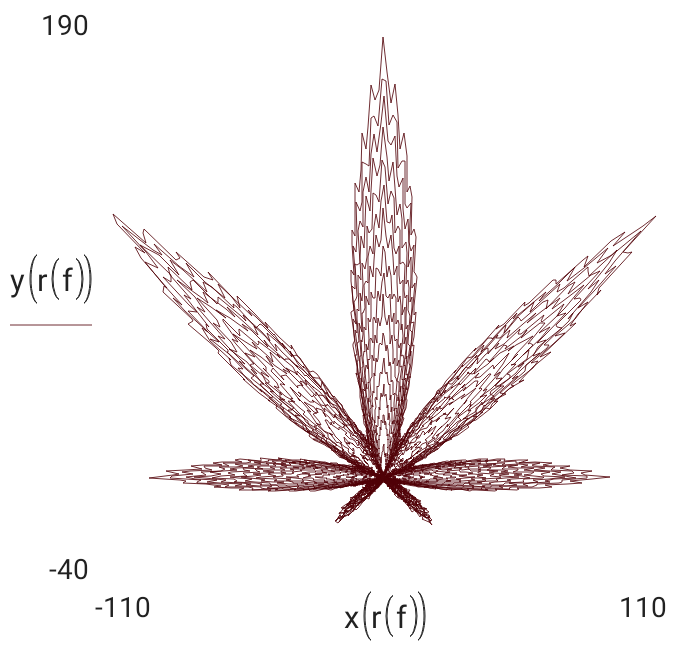
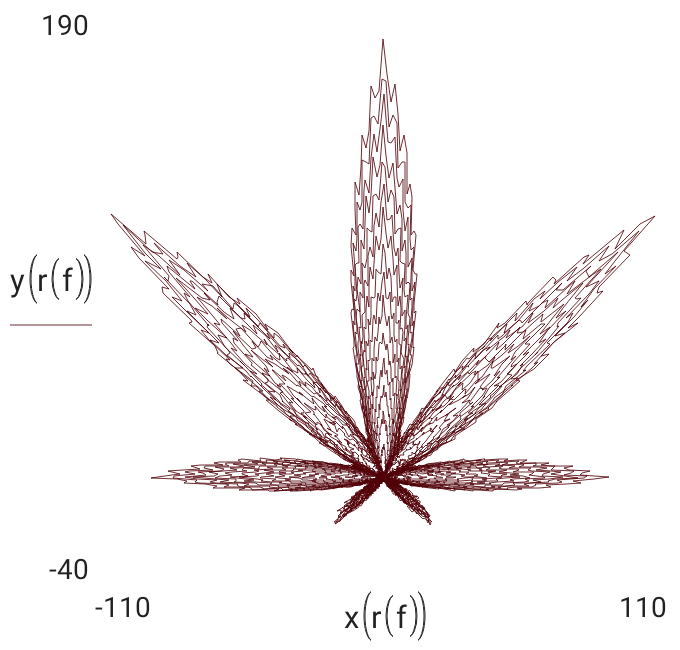
Updated documentation for version 2.16.1

Changed region(s): [[0.1544, 0.1231, 0.9574, 0.8], [0.5559, 0.0615, 0.5868, 0.1231]]

diff --git a/doc/polar_plot_ru.tex b/doc/polar_plot_ru.tex
@@ -1,5 +1,5 @@
 % This is auto-generated file: do not edit!
-% Exported from microMathematics Plus, version 2.16
+% Exported from microMathematics Plus, version 2.16.1
 
 
 Сейчас мы построим несколько
@@ -108,7 +108,7 @@ x и y, используя следующие
   $s2(f) := 0.9 + 0.05 \cdot cos \left( 200 \cdot f\right) $
 \end{tabular}\end{center}
 \begin{center}\begin{tabular}{c}
-  $r(f) := floor \left( f\right)  \cdot s1 \left( f\right)  \cdot s2 \left( f\right)  + rnd \left( 2\right)  - 1$
+  $r(f) := floor \left( f\right)  \cdot s1 \left( f\right)  \cdot s2 \left( f\right)  + random \left( 2\right)  - 1$
 \end{tabular}\end{center}
 \begin{center}\begin{tabular}{c} \includegraphics[resolution=320]{graphics/polar_plot_fig6.png} \end{tabular}\end{center}
 

diff --git a/doc/how_to_use_ru.tex b/doc/how_to_use_ru.tex
@@ -1,5 +1,5 @@
 % This is auto-generated file: do not edit!
-% Exported from microMathematics Plus, version 2.16
+% Exported from microMathematics Plus, version 2.16.1
 
 
 Данное приложение является мощным
@@ -225,7 +225,10 @@ LaTeX или изображение.
   $w(z) := {e}^{2i \cdot {\pi} \cdot z}$
 \end{tabular}\end{center}
 \begin{center}\begin{tabular}{c}
-  $g(x,y) := \frac{sin \left( hypot \left( x,\, y\right) \right) }{hypot \left( x,\, y / 2\right)  + 1}$
+  $H(x,y) := \sqrt{{x}^{2} + {y}^{2}} $
+\end{tabular}\end{center}
+\begin{center}\begin{tabular}{c}
+  $g(x,y) := \frac{sin \left( H \left( x,\, y\right) \right) }{H \left( x,\, y / 2\right)  + 1}$
 \end{tabular}\end{center}
 
 Правая часть такого объекта

diff --git a/doc/polar_plot.tex b/doc/polar_plot.tex
@@ -1,5 +1,5 @@
 % This is auto-generated file: do not edit!
-% Exported from microMathematics Plus, version 2.16
+% Exported from microMathematics Plus, version 2.16.1
 
 
 Now we plot several functions given in
@@ -89,7 +89,7 @@ in the polar coordinate system:
   $s2(f) := 0.9 + 0.05 \cdot cos \left( 200 \cdot f\right) $
 \end{tabular}\end{center}
 \begin{center}\begin{tabular}{c}
-  $r(f) := floor \left( f\right)  \cdot s1 \left( f\right)  \cdot s2 \left( f\right)  + rnd \left( 2\right)  - 1$
+  $r(f) := floor \left( f\right)  \cdot s1 \left( f\right)  \cdot s2 \left( f\right)  + random \left( 2\right)  - 1$
 \end{tabular}\end{center}
 \begin{center}\begin{tabular}{c} \includegraphics[resolution=320]{graphics/polar_plot_fig6.png} \end{tabular}\end{center}
 

diff --git a/doc/polar_plot_br.tex b/doc/polar_plot_br.tex
@@ -1,5 +1,5 @@
 % This is auto-generated file: do not edit!
-% Exported from microMathematics Plus, version 2.16
+% Exported from microMathematics Plus, version 2.16.1
 
 
 Agora desenharemos várias funções dadas
@@ -93,7 +93,7 @@ coordenadas polares:
   $s2(f) := 0.9 + 0.05 \cdot cos \left( 200 \cdot f\right) $
 \end{tabular}\end{center}
 \begin{center}\begin{tabular}{c}
-  $r(f) := floor \left( f\right)  \cdot s1 \left( f\right)  \cdot s2 \left( f\right)  + rnd \left( 2\right)  - 1$
+  $r(f) := floor \left( f\right)  \cdot s1 \left( f\right)  \cdot s2 \left( f\right)  + random \left( 2\right)  - 1$
 \end{tabular}\end{center}
 \begin{center}\begin{tabular}{c} \includegraphics[resolution=320]{graphics/polar_plot_fig6.png} \end{tabular}\end{center}
 

diff --git a/doc/polar_plot_de.tex b/doc/polar_plot_de.tex
@@ -1,5 +1,5 @@
 % This is auto-generated file: do not edit!
-% Exported from microMathematics Plus, version 2.16
+% Exported from microMathematics Plus, version 2.16.1
 
 
 Jetzt zeichnen wir eine Funktion, die
@@ -95,7 +95,7 @@ dargestellt werden:
   $s2(f) := 0.9 + 0.05 \cdot cos \left( 200 \cdot f\right) $
 \end{tabular}\end{center}
 \begin{center}\begin{tabular}{c}
-  $r(f) := floor \left( f\right)  \cdot s1 \left( f\right)  \cdot s2 \left( f\right)  + rnd \left( 2\right)  - 1$
+  $r(f) := floor \left( f\right)  \cdot s1 \left( f\right)  \cdot s2 \left( f\right)  + random \left( 2\right)  - 1$
 \end{tabular}\end{center}
 \begin{center}\begin{tabular}{c} \includegraphics[resolution=320]{graphics/polar_plot_fig6.png} \end{tabular}\end{center}
 

diff --git a/doc/how_to_use.tex b/doc/how_to_use.tex
@@ -1,5 +1,5 @@
 % This is auto-generated file: do not edit!
-% Exported from microMathematics Plus, version 2.16
+% Exported from microMathematics Plus, version 2.16.1
 
 
 This app is a powerful calculation
@@ -201,7 +201,10 @@ letters or digits only:
   $w(z) := {e}^{2i \cdot {\pi} \cdot z}$
 \end{tabular}\end{center}
 \begin{center}\begin{tabular}{c}
-  $g(x,y) := \frac{sin \left( hypot \left( x,\, y\right) \right) }{hypot \left( x,\, y / 2\right)  + 1}$
+  $H(x,y) := \sqrt{{x}^{2} + {y}^{2}} $
+\end{tabular}\end{center}
+\begin{center}\begin{tabular}{c}
+  $g(x,y) := \frac{sin \left( H \left( x,\, y\right) \right) }{H \left( x,\, y / 2\right)  + 1}$
 \end{tabular}\end{center}
 
 The right side of the function contains

diff --git a/doc/how_to_use_br.tex b/doc/how_to_use_br.tex
@@ -1,5 +1,5 @@
 % This is auto-generated file: do not edit!
-% Exported from microMathematics Plus, version 2.16
+% Exported from microMathematics Plus, version 2.16.1
 
 
 Este app é um poderoso programa
@@ -208,7 +208,10 @@ ou dígitos:
   $w(z) := {e}^{2i \cdot {\pi} \cdot z}$
 \end{tabular}\end{center}
 \begin{center}\begin{tabular}{c}
-  $g(x,y) := \frac{sin \left( hypot \left( x,\, y\right) \right) }{hypot \left( x,\, y / 2\right)  + 1}$
+  $H(x,y) := \sqrt{{x}^{2} + {y}^{2}} $
+\end{tabular}\end{center}
+\begin{center}\begin{tabular}{c}
+  $g(x,y) := \frac{sin \left( H \left( x,\, y\right) \right) }{H \left( x,\, y / 2\right)  + 1}$
 \end{tabular}\end{center}
 
 O lado direito da função contém uma

diff --git a/doc/how_to_use_de.tex b/doc/how_to_use_de.tex
@@ -1,5 +1,5 @@
 % This is auto-generated file: do not edit!
-% Exported from microMathematics Plus, version 2.16
+% Exported from microMathematics Plus, version 2.16.1
 
 
 Diese App ist eine leistungsstarke
@@ -214,7 +214,10 @@ definieren:
   $w(z) := {e}^{2i \cdot {\pi} \cdot z}$
 \end{tabular}\end{center}
 \begin{center}\begin{tabular}{c}
-  $g(x,y) := \frac{sin \left( hypot \left( x,\, y\right) \right) }{hypot \left( x,\, y / 2\right)  + 1}$
+  $H(x,y) := \sqrt{{x}^{2} + {y}^{2}} $
+\end{tabular}\end{center}
+\begin{center}\begin{tabular}{c}
+  $g(x,y) := \frac{sin \left( H \left( x,\, y\right) \right) }{H \left( x,\, y / 2\right)  + 1}$
 \end{tabular}\end{center}
 
 Rechts von der Funktion findet sich

diff --git a/doc/function_plot_ru.tex b/doc/function_plot_ru.tex
@@ -1,5 +1,5 @@
 % This is auto-generated file: do not edit!
-% Exported from microMathematics Plus, version 2.16
+% Exported from microMathematics Plus, version 2.16.1
 
 
 Данный пример демонстрирует

diff --git a/doc/series_and_integrals_ru.tex b/doc/series_and_integrals_ru.tex
@@ -1,5 +1,5 @@
 % This is auto-generated file: do not edit!
-% Exported from microMathematics Plus, version 2.16
+% Exported from microMathematics Plus, version 2.16.1
 
 
 Данный пример демонстрирует

diff --git a/doc/three_d_plot_ru.tex b/doc/three_d_plot_ru.tex
@@ -1,5 +1,5 @@
 % This is auto-generated file: do not edit!
-% Exported from microMathematics Plus, version 2.16
+% Exported from microMathematics Plus, version 2.16.1
 
 
 Данный пример демонстрирует

diff --git a/doc/three_d_plot_br.tex b/doc/three_d_plot_br.tex
@@ -1,5 +1,5 @@
 % This is auto-generated file: do not edit!
-% Exported from microMathematics Plus, version 2.16
+% Exported from microMathematics Plus, version 2.16.1
 
 
 Este exemplo demonstra desenhos 3D para
